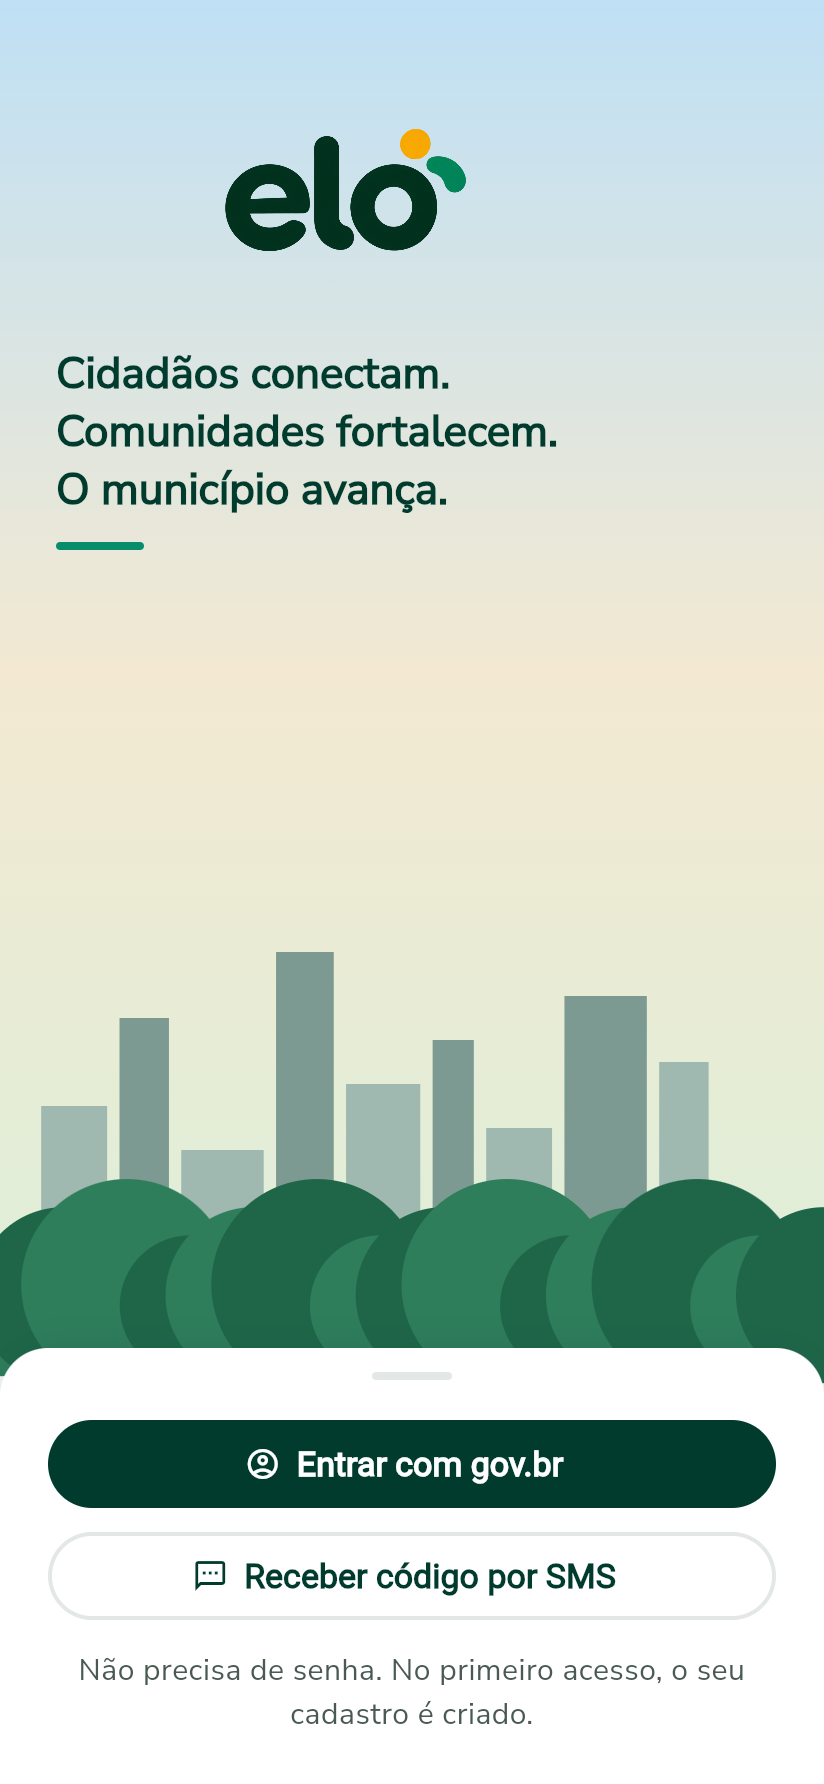
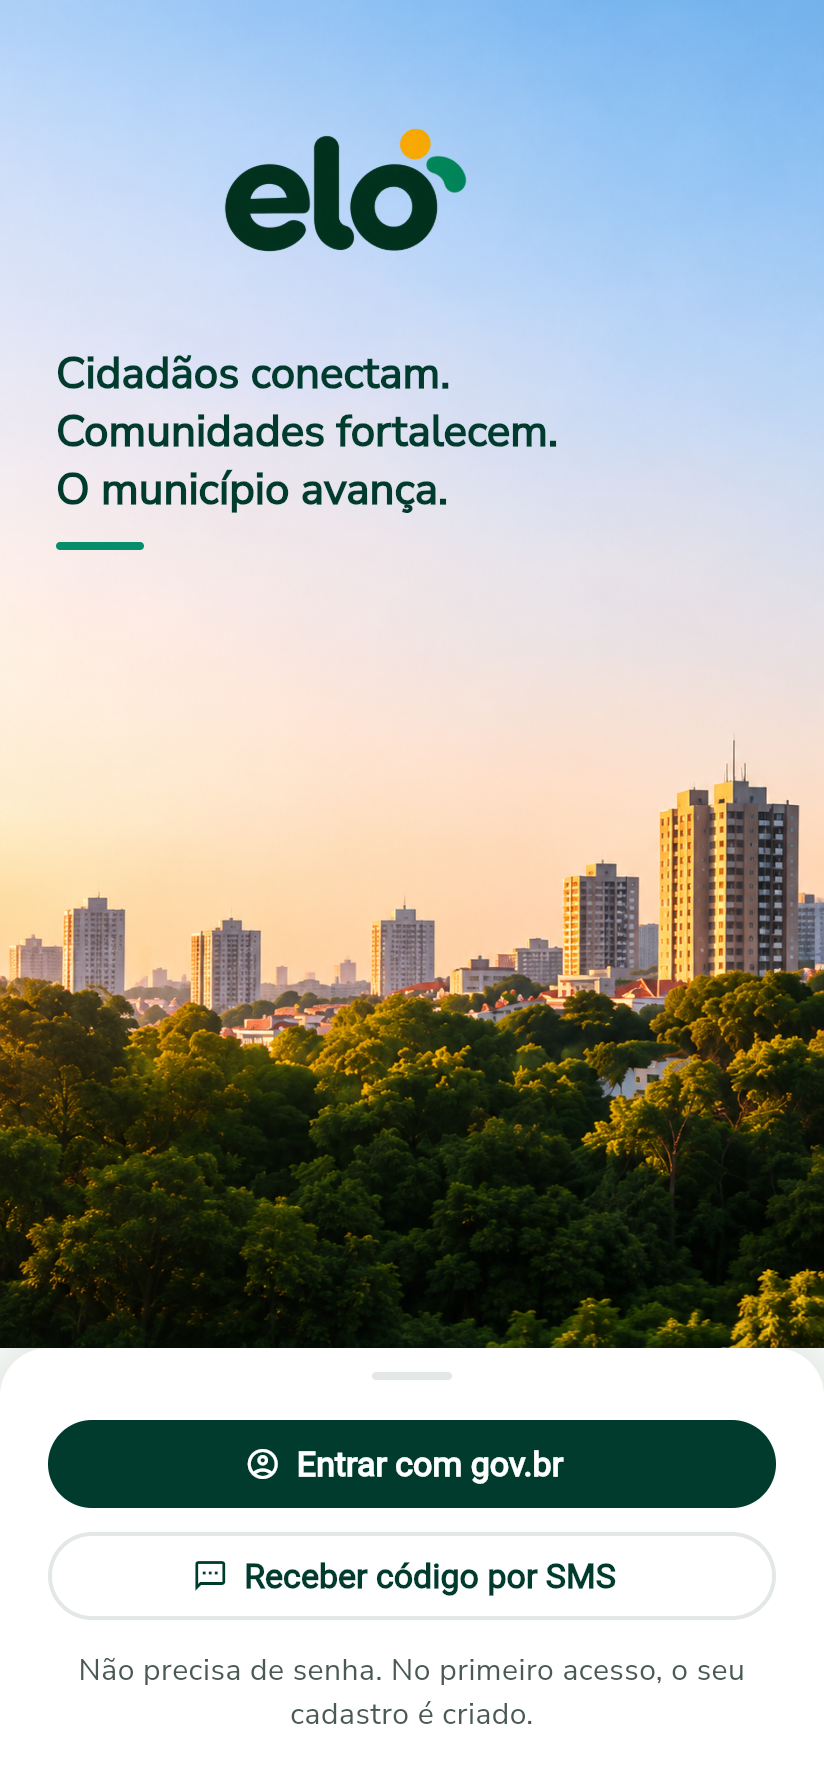
feat(app): foto de fundo na tela de boas-vindas
Usa a imagem signin-bg (céu e skyline) no lugar da ilustração
desenhada em código, ajustada pela base para o skyline ficar logo
acima do painel de login. Teste de acessibilidade em tamanho de
celular em retrato.

diff --git a/area3-mvp-iot/app/lib/telas/boas_vindas.dart b/area3-mvp-iot/app/lib/telas/boas_vindas.dart
@@ -17,16 +17,14 @@ class BoasVindas extends StatelessWidget {
       body: Column(children: [
         Expanded(
           child: Stack(fit: StackFit.expand, children: [
-            const DecoratedBox(
-              decoration: BoxDecoration(
-                gradient: LinearGradient(
-                  begin: Alignment.topCenter,
-                  end: Alignment.bottomCenter,
-                  colors: [Color(0xFFBFE0F5), Color(0xFFF3E9D2), Color(0xFFDDEFD9)],
-                ),
+            // Foto de fundo (céu + skyline); decorativa, o leitor de tela ignora.
+            const ExcludeSemantics(
+              child: Image(
+                image: AssetImage('assets/signin-bg.png'),
+                fit: BoxFit.cover,
+                alignment: Alignment.bottomCenter,
               ),
             ),
-            const Positioned(left: 0, right: 0, bottom: 0, height: 220, child: ExcludeSemantics(child: CustomPaint(painter: _Cidade()))),
             SafeArea(
               child: Padding(
                 padding: const EdgeInsets.fromLTRB(28, 48, 28, 0),
@@ -73,33 +71,4 @@ class BoasVindas extends StatelessWidget {
       ]),
     );
   }
-}
-
-/// Silhueta de prédios e árvores, decorativa (o leitor de tela ignora).
-class _Cidade extends CustomPainter {
-  const _Cidade();
-  @override
-  void paint(Canvas canvas, Size s) {
-    final predio = Paint()..color = const Color(0xFF9FB8B0);
-    final predio2 = Paint()..color = const Color(0xFF7C9A91);
-    final arvore = Paint()..color = const Color(0xFF2E7D5B);
-    final arvore2 = Paint()..color = const Color(0xFF1F6649);
-    final larguras = [0.08, 0.06, 0.1, 0.07, 0.09, 0.05, 0.08, 0.1, 0.06];
-    final alturas = [0.55, 0.75, 0.45, 0.9, 0.6, 0.7, 0.5, 0.8, 0.65];
-    var x = s.width * 0.05;
-    for (var i = 0; i < larguras.length; i++) {
-      final w = s.width * larguras[i];
-      final h = s.height * alturas[i];
-      canvas.drawRect(Rect.fromLTWH(x, s.height - h, w, h), i.isEven ? predio : predio2);
-      x += w + s.width * 0.015;
-    }
-    for (var i = 0; i < 14; i++) {
-      final cx = s.width * (i / 13);
-      final r = s.height * (0.16 + (i % 3) * 0.04);
-      canvas.drawCircle(Offset(cx, s.height - r * 0.6), r, i.isEven ? arvore : arvore2);
-    }
-  }
-
-  @override
-  bool shouldRepaint(covariant CustomPainter oldDelegate) => false;
 }

diff --git a/area3-mvp-iot/app/test/widget_test.dart b/area3-mvp-iot/app/test/widget_test.dart
@@ -26,7 +26,10 @@ void main() {
     expect(find.textContaining('Facebook'), findsNothing);
   });
 
-  testWidgets('boas-vindas atende contraste, alvo de toque e rótulos', (tester) async {
+  testWidgets('boas-vindas atende contraste, alvo de toque e rótulos (celular em retrato)', (tester) async {
+    tester.view.physicalSize = const Size(1080, 2340);
+    tester.view.devicePixelRatio = 2.625;
+    addTearDown(tester.view.reset);
     final semantica = tester.ensureSemantics();
     await tester.pumpWidget(_app(const BoasVindas()));
     await expectLater(tester, meetsGuideline(androidTapTargetGuideline));
